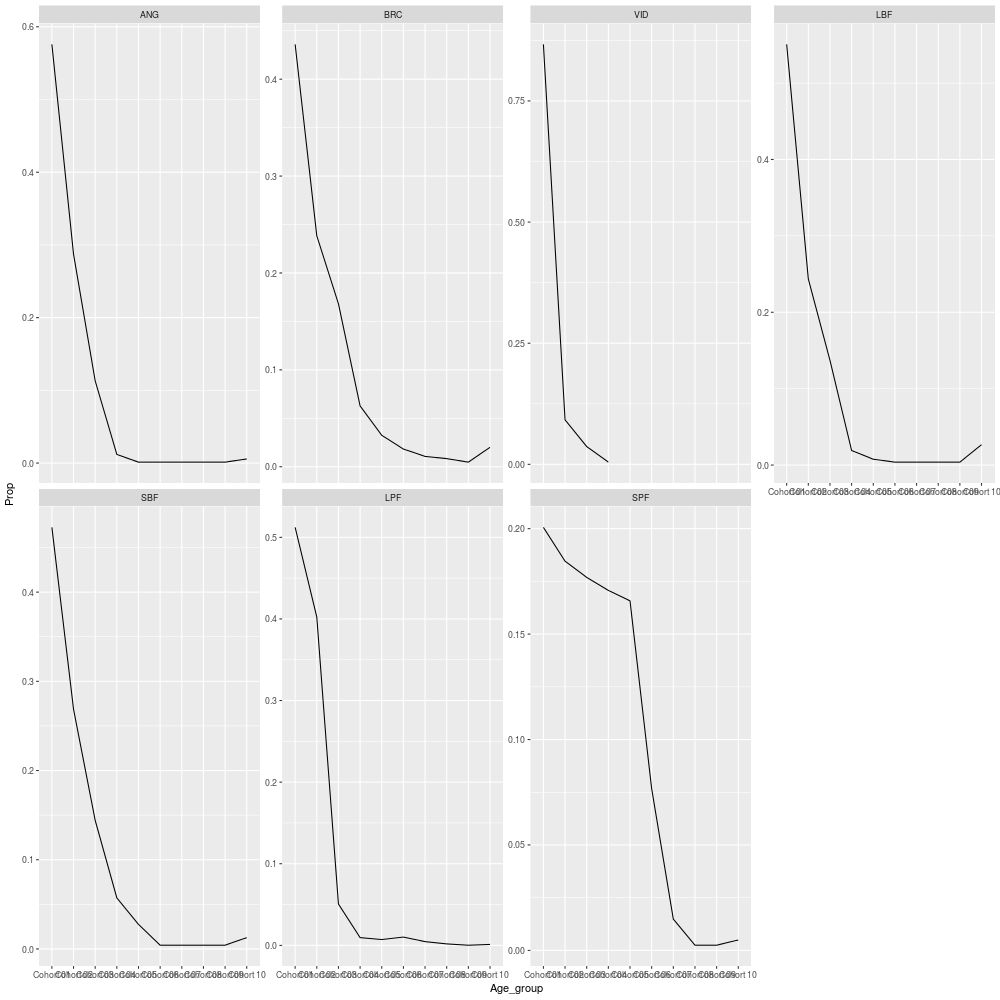
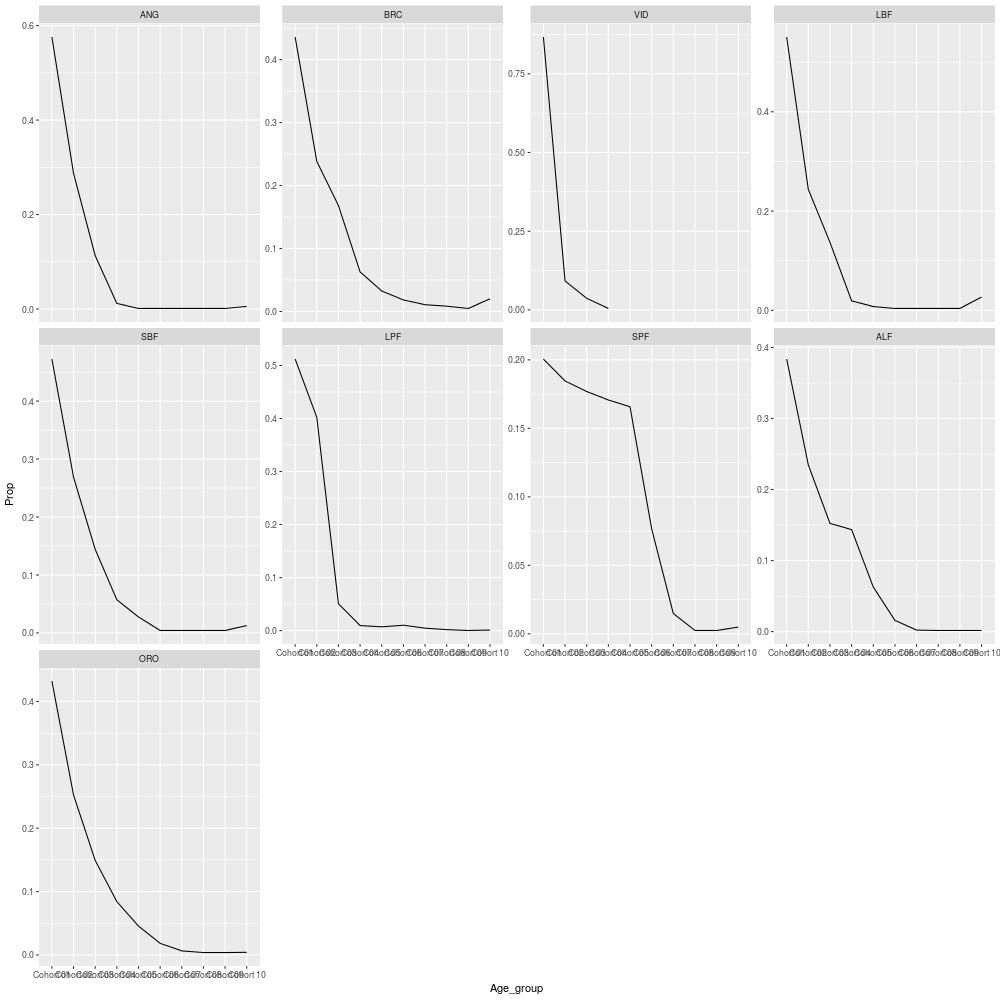
Add Alfonsino and Orange roughy to the estimation of LFD for the cohorts

diff --git a/MandM/Methods.html b/MandM/Methods.html
@@ -7,7 +7,7 @@
 <meta http-equiv="Content-Type" content="text/html;charset=utf-8"/>
 <meta name="title" content="Materials and Methods for the JFRE Atlantis model"/>
 <meta name="generator" content="Org-mode"/>
-<meta name="generated" content="2017-01-18T17:36+1100"/>
+<meta name="generated" content="2017-01-19T12:18+1100"/>
 <meta name="author" content="Javier Porobic"/>
 <meta name="description" content="This document Contain all the steps that I took to build the Atlantis Model for the Juan Fernandez Ridge Ecosystem"/>
 <meta name="keywords" content="Juan Fernandez Ridge ecosystem, Atlantis, Ecosystem-based fisheries management"/>
@@ -303,13 +303,14 @@ for the JavaScript code below.
 <li><a href="#sec-5-2-1-7">Spawning</a></li>
 <li><a href="#sec-5-2-1-8">Recruitment</a></li>
 <li><a href="#sec-5-2-1-9">LFD by cohorts</a></li>
-<li><a href="#sec-5-2-1-10">Temperature</a></li>
-<li><a href="#sec-5-2-1-11">Oxigen</a></li>
-<li><a href="#sec-5-2-1-12">Extra Mortality</a></li>
-<li><a href="#sec-5-2-1-13">Bibliography that I need</a></li>
-<li><a href="#sec-5-2-1-14">Codes</a></li>
-<li><a href="#sec-5-2-1-15">What is needed</a></li>
-<li><a href="#sec-5-2-1-16">Resume of the configuration file</a></li>
+<li><a href="#sec-5-2-1-10">Estimation of the mean Weight</a></li>
+<li><a href="#sec-5-2-1-11">Temperature</a></li>
+<li><a href="#sec-5-2-1-12">Oxigen</a></li>
+<li><a href="#sec-5-2-1-13">Extra Mortality</a></li>
+<li><a href="#sec-5-2-1-14">Bibliography that I need</a></li>
+<li><a href="#sec-5-2-1-15">Codes</a></li>
+<li><a href="#sec-5-2-1-16">What is needed</a></li>
+<li><a href="#sec-5-2-1-17">Resume of the configuration file</a></li>
 </ul>
 </li>
 <li><a href="#sec-5-2-2">Forcing files</a>
@@ -3862,6 +3863,7 @@ print(b)
 
 <pre class="src src-R">rm(list = ls())
 <span style="color: #ff4500; font-weight: bold;">library</span>(ascii)
+options(asciiType = <span style="color: #ffc125; font-weight: bold;">"org"</span>)
 <span style="color: #ff4500; font-weight: bold;">library</span>(ggplot2)
 <span style="color: #ff4500; font-weight: bold;">source</span>(<span style="color: #ffc125; font-weight: bold;">'/home/demiurgo/Documents/PhD/Atlantis_Model/tools/General_tools/Atlantis_tools.R'</span>)
 <span style="color: #696969;">## </span><span style="color: #696969;">data</span>
@@ -3905,40 +3907,82 @@ png(<span style="color: #ffc125; font-weight: bold;">'img/Cohorts.png'</span>, h
 sp    <span style="color: #ff4500; font-weight: bold;">&lt;-</span> ggplot(data = output, aes(Age_group, Prop, group = 1))+ geom_line()
 sp + facet_wrap(~FG, ncol = 4, scales = <span style="color: #ffc125; font-weight: bold;">'free_y'</span>)
 invisible(dev.off())
-b     <span style="color: #ff4500; font-weight: bold;">&lt;-</span> ascii(tab.out, header = T,  include.rownames = <span style="color: #fffacd; font-weight: bold;">TRUE</span>, include.colnames = <span style="color: #fffacd; font-weight: bold;">TRUE</span>, caption=cap)
+b     <span style="color: #ff4500; font-weight: bold;">&lt;-</span> ascii(tab.out, header = T,  include.rownames = <span style="color: #fffacd; font-weight: bold;">TRUE</span>, include.colnames = <span style="color: #fffacd; font-weight: bold;">TRUE</span>, caption=cap, digits=3)
 print(b)
 </pre>
 
-
 <table border="2" cellspacing="0" cellpadding="6" rules="groups" frame="hsides">
-<colgroup><col class="left" /><col class="right" /><col class="right" /><col class="right" /><col class="right" /><col class="right" /><col class="right" /><col class="right" /><col class="right" /><col class="right" /><col class="right" />
+<colgroup><col class="left" /><col class="left" /><col class="right" /><col class="right" /><col class="right" /><col class="right" /><col class="right" /><col class="right" /><col class="right" /><col class="right" /><col class="right" /><col class="right" />
 </colgroup>
+<thead>
+<tr><th scope="col" class="left"></th><th scope="col" class="left"></th><th scope="col" class="right"><b>Age<sub>group</sub></b></th><th scope="col" class="right"></th><th scope="col" class="right"></th><th scope="col" class="right"></th><th scope="col" class="right"></th><th scope="col" class="right"></th><th scope="col" class="right"></th><th scope="col" class="right"></th><th scope="col" class="right"></th><th scope="col" class="right"></th></tr>
+<tr><th scope="col" class="left"></th><th scope="col" class="left"></th><th scope="col" class="right">Cohort 01</th><th scope="col" class="right">Cohort 02</th><th scope="col" class="right">Cohort 03</th><th scope="col" class="right">Cohort 04</th><th scope="col" class="right">Cohort 05</th><th scope="col" class="right">Cohort 06</th><th scope="col" class="right">Cohort 07</th><th scope="col" class="right">Cohort 08</th><th scope="col" class="right">Cohort 09</th><th scope="col" class="right">Cohort 10</th></tr>
+</thead>
 <tbody>
-<tr><td class="left"></td><td class="right">Cohort 01</td><td class="right">Cohort 02</td><td class="right">Cohort 03</td><td class="right">Cohort 04</td><td class="right">Cohort 05</td><td class="right">Cohort 06</td><td class="right">Cohort 07</td><td class="right">Cohort 08</td><td class="right">Cohort 09</td><td class="right">Cohort 10</td></tr>
-<tr><td class="left">ANG</td><td class="right">0.58</td><td class="right">0.29</td><td class="right">0.11</td><td class="right">0.01</td><td class="right">0.00</td><td class="right">0.00</td><td class="right">0.00</td><td class="right">0.00</td><td class="right">0.00</td><td class="right">0.01</td></tr>
-<tr><td class="left">BRC</td><td class="right">0.44</td><td class="right">0.24</td><td class="right">0.17</td><td class="right">0.06</td><td class="right">0.03</td><td class="right">0.02</td><td class="right">0.01</td><td class="right">0.01</td><td class="right">0.00</td><td class="right">0.02</td></tr>
-<tr><td class="left">VID</td><td class="right">0.87</td><td class="right">0.09</td><td class="right">0.04</td><td class="right">0.00</td><td class="right">0.00</td><td class="right">0.00</td><td class="right">0.00</td><td class="right">0.00</td><td class="right">0.00</td><td class="right">0.00</td></tr>
-<tr><td class="left">LBF</td><td class="right">0.55</td><td class="right">0.24</td><td class="right">0.14</td><td class="right">0.02</td><td class="right">0.01</td><td class="right">0.00</td><td class="right">0.00</td><td class="right">0.00</td><td class="right">0.00</td><td class="right">0.03</td></tr>
-<tr><td class="left">SBF</td><td class="right">0.47</td><td class="right">0.27</td><td class="right">0.14</td><td class="right">0.06</td><td class="right">0.03</td><td class="right">0.00</td><td class="right">0.00</td><td class="right">0.00</td><td class="right">0.00</td><td class="right">0.01</td></tr>
-<tr><td class="left">LPF</td><td class="right">0.51</td><td class="right">0.40</td><td class="right">0.05</td><td class="right">0.01</td><td class="right">0.01</td><td class="right">0.01</td><td class="right">0.00</td><td class="right">0.00</td><td class="right">0.00</td><td class="right">0.00</td></tr>
-<tr><td class="left">SPF</td><td class="right">0.20</td><td class="right">0.18</td><td class="right">0.18</td><td class="right">0.17</td><td class="right">0.17</td><td class="right">0.08</td><td class="right">0.01</td><td class="right">0.00</td><td class="right">0.00</td><td class="right">0.00</td></tr>
+<tr><td class="left"><b>FG</b></td><td class="left">ANG</td><td class="right">0.576</td><td class="right">0.287</td><td class="right">0.113</td><td class="right">0.012</td><td class="right">0.001</td><td class="right">0.001</td><td class="right">0.001</td><td class="right">0.001</td><td class="right">0.001</td><td class="right">0.006</td></tr>
+<tr><td class="left"></td><td class="left">BRC</td><td class="right">0.436</td><td class="right">0.238</td><td class="right">0.168</td><td class="right">0.063</td><td class="right">0.032</td><td class="right">0.018</td><td class="right">0.011</td><td class="right">0.008</td><td class="right">0.005</td><td class="right">0.020</td></tr>
+<tr><td class="left"></td><td class="left">VID</td><td class="right">0.867</td><td class="right">0.092</td><td class="right">0.037</td><td class="right">0.005</td><td class="right">0.000</td><td class="right">0.000</td><td class="right">0.000</td><td class="right">0.000</td><td class="right">0.000</td><td class="right">0.000</td></tr>
+<tr><td class="left"></td><td class="left">LBF</td><td class="right">0.551</td><td class="right">0.244</td><td class="right">0.137</td><td class="right">0.019</td><td class="right">0.008</td><td class="right">0.004</td><td class="right">0.004</td><td class="right">0.004</td><td class="right">0.004</td><td class="right">0.027</td></tr>
+<tr><td class="left"></td><td class="left">SBF</td><td class="right">0.473</td><td class="right">0.269</td><td class="right">0.144</td><td class="right">0.057</td><td class="right">0.028</td><td class="right">0.004</td><td class="right">0.004</td><td class="right">0.004</td><td class="right">0.004</td><td class="right">0.013</td></tr>
+<tr><td class="left"></td><td class="left">LPF</td><td class="right">0.512</td><td class="right">0.402</td><td class="right">0.051</td><td class="right">0.010</td><td class="right">0.007</td><td class="right">0.010</td><td class="right">0.005</td><td class="right">0.002</td><td class="right">0.000</td><td class="right">0.001</td></tr>
+<tr><td class="left"></td><td class="left">SPF</td><td class="right">0.201</td><td class="right">0.185</td><td class="right">0.177</td><td class="right">0.171</td><td class="right">0.166</td><td class="right">0.077</td><td class="right">0.015</td><td class="right">0.002</td><td class="right">0.002</td><td class="right">0.005</td></tr>
+<tr><td class="left"></td><td class="left">ALF</td><td class="right">0.384</td><td class="right">0.235</td><td class="right">0.152</td><td class="right">0.144</td><td class="right">0.063</td><td class="right">0.016</td><td class="right">0.002</td><td class="right">0.002</td><td class="right">0.002</td><td class="right">0.002</td></tr>
+<tr><td class="left"></td><td class="left">ORO</td><td class="right">0.432</td><td class="right">0.252</td><td class="right">0.149</td><td class="right">0.084</td><td class="right">0.046</td><td class="right">0.018</td><td class="right">0.006</td><td class="right">0.004</td><td class="right">0.004</td><td class="right">0.004</td></tr>
 </tbody>
 </table>
 
+
+<p>
 <img src="file:///home/demiurgo/Documents/PhD/Atlantis_Model/model_JFR/MandM/img/Cohorts.png" width="600" alt="image" />
 <br style="clear:both;" />
-
-
+</p>
 </div>
 
 </div>
 
 <div id="outline-container-5-2-1-10" class="outline-5">
-<h5 id="sec-5-2-1-10">Temperature</h5>
+<h5 id="sec-5-2-1-10">Estimation of the mean Weight</h5>
 <div class="outline-text-5" id="text-5-2-1-10">
 
 <ul>
-<li id="sec-5-2-1-10-1">Recruitment<br/>
+<li>Based on the catch data and the data at age available I calculated the mean weight for several groups
+</li>
+</ul>
+
+
+
+
+<pre class="src src-R"><span style="color: #696969;">## </span><span style="color: #696969;">Estimation of the mean weight for the FG</span>
+rm(list=ls())
+<span style="color: #ff4500; font-weight: bold;">library</span>(ascii)
+options(asciiType = <span style="color: #ffc125; font-weight: bold;">"org"</span>)
+<span style="color: #ff4500; font-weight: bold;">source</span>(<span style="color: #ffc125; font-weight: bold;">'/home/demiurgo/Documents/PhD/Atlantis_Model/tools/General_tools/Atlantis_tools.R'</span>)
+datos <span style="color: #ff4500; font-weight: bold;">&lt;-</span> read.csv(<span style="color: #ffc125; font-weight: bold;">'/home/demiurgo/Documents/PhD/Functional_groups/length_weight/length_weight_jf.csv'</span>)
+w.fg  <span style="color: #ff4500; font-weight: bold;">&lt;-</span> FG(datos, 2)
+w.fg  <span style="color: #ff4500; font-weight: bold;">&lt;-</span> split(w.fg, w.fg$FG)
+<span style="color: #696969;">## </span><span style="color: #696969;">estimation of mean weight</span>
+weigth <span style="color: #ff4500; font-weight: bold;">&lt;-</span> vector(<span style="color: #ffc125; font-weight: bold;">'numeric'</span>)
+<span style="color: #ff7f00; font-weight: bold;">for</span>( i <span style="color: #ff7f00; font-weight: bold;">in</span> 1: length(w.fg)){
+weigth[i] <span style="color: #ff4500; font-weight: bold;">&lt;-</span> mean(w.fg[[i]]$weight)
+}
+<span style="color: #696969;">## </span><span style="color: #696969;">output</span>
+cap <span style="color: #ff4500; font-weight: bold;">&lt;-</span> <span style="color: #ffc125; font-weight: bold;">'Mean weight for Functional Group (FG)'</span>
+out <span style="color: #ff4500; font-weight: bold;">&lt;-</span> data.frame(FG = names(w.fg), Mean.Weight = weigth)
+b   <span style="color: #ff4500; font-weight: bold;">&lt;-</span> ascii(out, header = T,  include.rownames = <span style="color: #fffacd; font-weight: bold;">FALSE</span>, include.colnames = <span style="color: #fffacd; font-weight: bold;">TRUE</span>, caption=cap)
+print(b)
+</pre>
+
+
+</div>
+
+</div>
+
+<div id="outline-container-5-2-1-11" class="outline-5">
+<h5 id="sec-5-2-1-11">Temperature</h5>
+<div class="outline-text-5" id="text-5-2-1-11">
+
+<ul>
+<li id="sec-5-2-1-11-1">Recruitment<br/>
 <table border="2" cellspacing="0" cellpadding="6" rules="groups" frame="hsides">
 <colgroup><col class="left" /><col class="left" /><col class="right" /><col class="left" /><col class="left" />
 </colgroup>
@@ -3959,7 +4003,7 @@ print(b)
 </li>
 </ul>
 <ul>
-<li id="sec-5-2-1-10-2">Optimal temperature<br/>
+<li id="sec-5-2-1-11-2">Optimal temperature<br/>
 <table border="2" cellspacing="0" cellpadding="6" rules="groups" frame="hsides">
 <colgroup><col class="left" /><col class="right" /><col class="right" /><col class="left" /><col class="left" />
 </colgroup>
@@ -4039,7 +4083,7 @@ print(b)
 
 
 <ul>
-<li id="sec-5-2-1-10-2-1">Temperature tolerance (Griffin model)<br/>
+<li id="sec-5-2-1-11-2-1">Temperature tolerance (Griffin model)<br/>
 
 </li>
 </ul>
@@ -4049,12 +4093,12 @@ print(b)
 
 </div>
 
-<div id="outline-container-5-2-1-11" class="outline-5">
-<h5 id="sec-5-2-1-11">Oxigen</h5>
-<div class="outline-text-5" id="text-5-2-1-11">
+<div id="outline-container-5-2-1-12" class="outline-5">
+<h5 id="sec-5-2-1-12">Oxigen</h5>
+<div class="outline-text-5" id="text-5-2-1-12">
 
 <ul>
-<li id="sec-5-2-1-11-1">Oxygen model used for epibenthic invertebrate <b>Quadratic limitation</b> (O2case = 3)<br/>
+<li id="sec-5-2-1-12-1">Oxygen model used for epibenthic invertebrate <b>Quadratic limitation</b> (O2case = 3)<br/>
 <ul>
 <li>Calculates both ambient and depth based limitation and uses the larger of the two values as the oxygen scalar dO2
 </li>
@@ -4115,18 +4159,18 @@ print(b)
 
 </div>
 
-<div id="outline-container-5-2-1-12" class="outline-5">
-<h5 id="sec-5-2-1-12">Extra Mortality</h5>
-<div class="outline-text-5" id="text-5-2-1-12">
+<div id="outline-container-5-2-1-13" class="outline-5">
+<h5 id="sec-5-2-1-13">Extra Mortality</h5>
+<div class="outline-text-5" id="text-5-2-1-13">
 
 <p>     I'm not including xxplicit fish mortality by season (mS<sub>FDXXX</sub>) and seabird and mamal induced mortality (mS<sub>SBXXX</sub>)
 </p></div>
 
 </div>
 
-<div id="outline-container-5-2-1-13" class="outline-5">
-<h5 id="sec-5-2-1-13">Bibliography that I need</h5>
-<div class="outline-text-5" id="text-5-2-1-13">
+<div id="outline-container-5-2-1-14" class="outline-5">
+<h5 id="sec-5-2-1-14">Bibliography that I need</h5>
+<div class="outline-text-5" id="text-5-2-1-14">
 
 <ul>
 <li><code>[&nbsp;]</code> Sepulveda y Pequeño,  Fauna ictica del archipielago de Juan Fernandez. En P. Arana (ed). Investigaciones Marinas en el Archipiélago de Juan Fernández. Esc. Ciencias del Mar, UCV, Valparaíso
@@ -4142,9 +4186,9 @@ print(b)
 
 </div>
 
-<div id="outline-container-5-2-1-14" class="outline-5">
-<h5 id="sec-5-2-1-14">Codes</h5>
-<div class="outline-text-5" id="text-5-2-1-14">
+<div id="outline-container-5-2-1-15" class="outline-5">
+<h5 id="sec-5-2-1-15">Codes</h5>
+<div class="outline-text-5" id="text-5-2-1-15">
 
 <table border="2" cellspacing="0" cellpadding="6" rules="groups" frame="hsides">
 <colgroup><col class="left" /><col class="left" /><col class="left" /><col class="left" /><col class="left" />
@@ -4192,29 +4236,29 @@ print(b)
 
 </div>
 
-<div id="outline-container-5-2-1-15" class="outline-5">
-<h5 id="sec-5-2-1-15">What is needed</h5>
-<div class="outline-text-5" id="text-5-2-1-15">
-
-<ul>
-<li id="sec-5-2-1-15-1">Look for the larval duration of other species<br/>
-</li>
-</ul>
-<ul>
-<li id="sec-5-2-1-15-2">Pasar los valores de KSPA and FSP<br/>
-</li>
-</ul>
-<ul>
-<li id="sec-5-2-1-15-3">Poner el numero de individuos desovando<br/>
-</li>
-</ul>
-</div>
-
-</div>
-
 <div id="outline-container-5-2-1-16" class="outline-5">
-<h5 id="sec-5-2-1-16">Resume of the configuration file</h5>
+<h5 id="sec-5-2-1-16">What is needed</h5>
 <div class="outline-text-5" id="text-5-2-1-16">
+
+<ul>
+<li id="sec-5-2-1-16-1">Look for the larval duration of other species<br/>
+</li>
+</ul>
+<ul>
+<li id="sec-5-2-1-16-2">Pasar los valores de KSPA and FSP<br/>
+</li>
+</ul>
+<ul>
+<li id="sec-5-2-1-16-3">Poner el numero de individuos desovando<br/>
+</li>
+</ul>
+</div>
+
+</div>
+
+<div id="outline-container-5-2-1-17" class="outline-5">
+<h5 id="sec-5-2-1-17">Resume of the configuration file</h5>
+<div class="outline-text-5" id="text-5-2-1-17">
 
 <table border="2" cellspacing="0" cellpadding="6" rules="groups" frame="hsides">
 <colgroup><col class="left" /><col class="left" /><col class="left" /><col class="left" /><col class="left" /><col class="left" /><col class="left" /><col class="left" /><col class="left" /><col class="left" /><col class="left" /><col class="left" /><col class="left" /><col class="left" /><col class="left" /><col class="left" /><col class="left" /><col class="left" /><col class="left" /><col class="left" /><col class="left" /><col class="left" /><col class="left" /><col class="left" /><col class="left" /><col class="left" /><col class="left" /><col class="left" /><col class="left" />
@@ -4600,7 +4644,7 @@ print(b)
 </div>
 
 <div id="postamble">
-<p class="date">Date: 2017-01-18T17:36+1100</p>
+<p class="date">Date: 2017-01-19T12:18+1100</p>
 <p class="author">Author: Javier Porobic</p>
 <p class="creator"><a href="http://orgmode.org">Org</a> version 7.9.3f with <a href="http://www.gnu.org/software/emacs/">Emacs</a> version 24</p>
 <a href="http://validator.w3.org/check?uri=referer">Validate XHTML 1.0</a>
